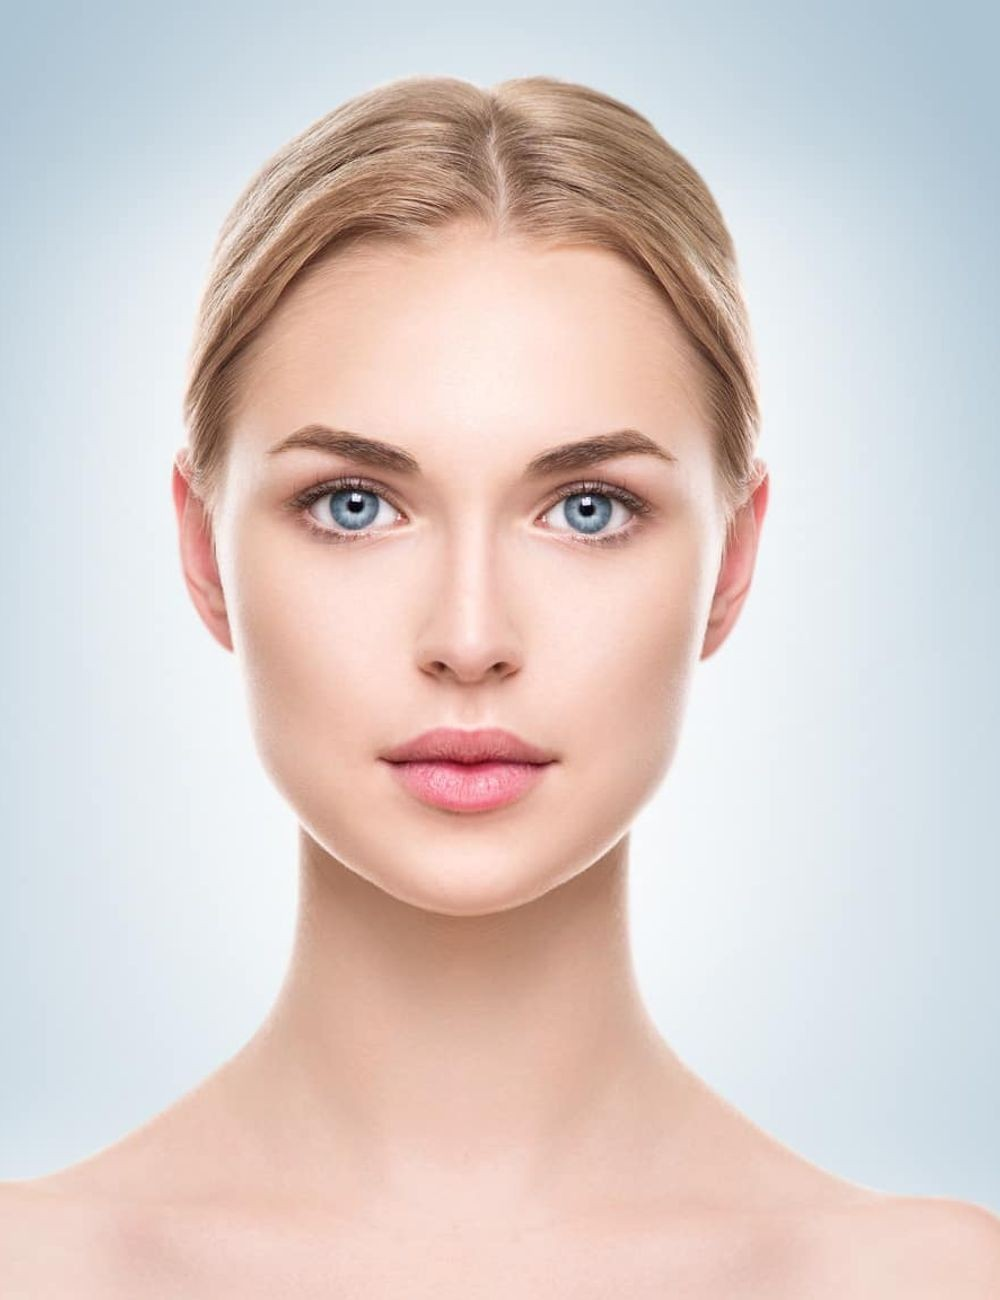
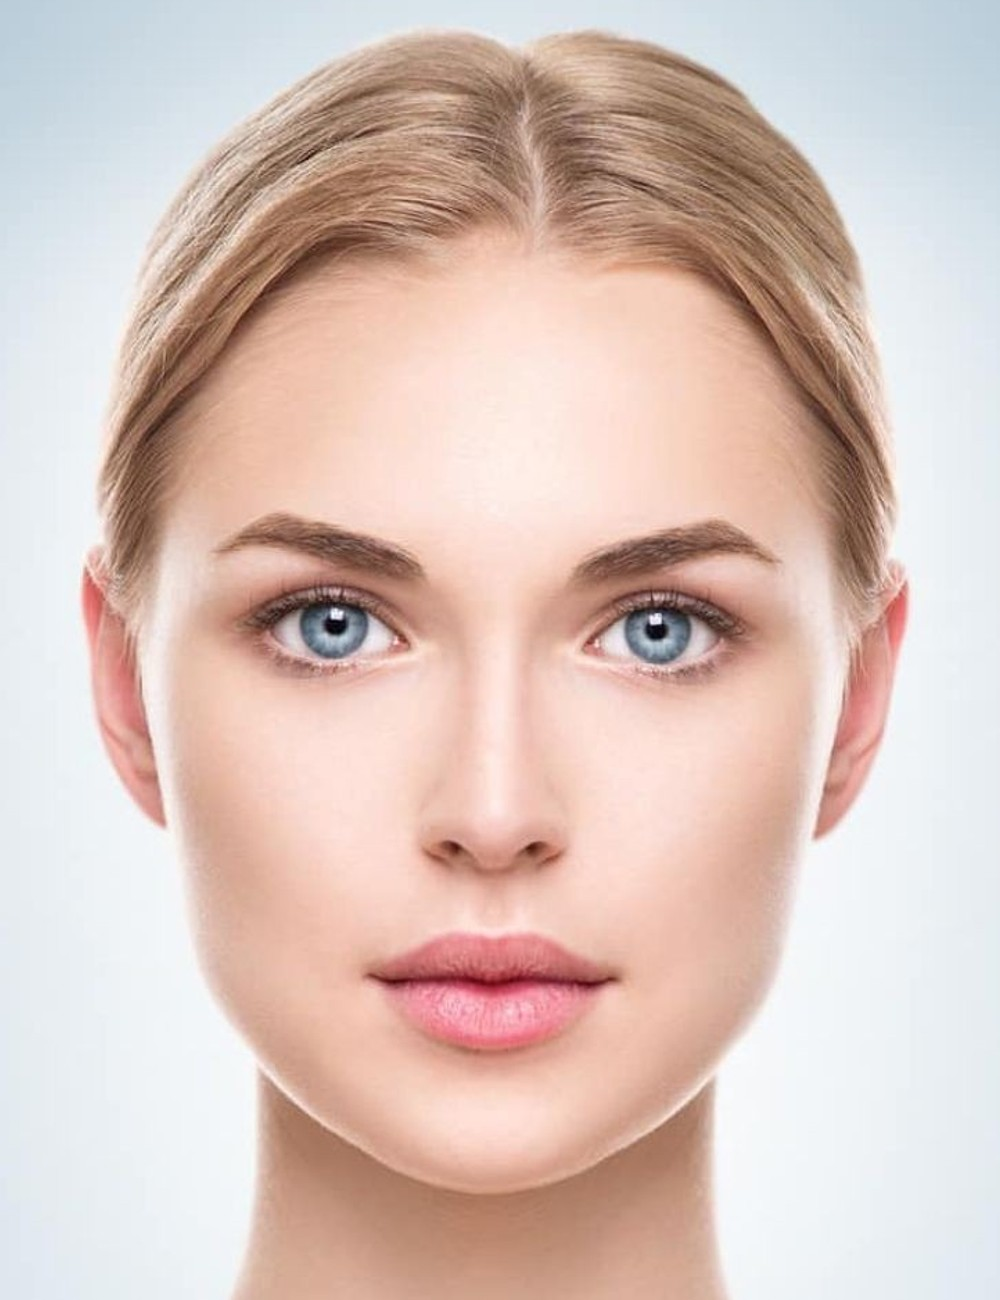
estetica: foto del mapa facial recortada (encuadre ajustado) + zonas recalibradas
Recorte mas ajustado de la foto base (sin cuello/hombros, cara mas grande) hecho por
Javier con el recortador, y las 29 zonas recalibradas/afinadas sobre ese encuadre con
el editor. Solo cambia la geometria y la foto base; los codigos y la lista (29) quedan
igual. Verificado: typecheck fe, build (calce confirmado con render).

diff --git a/shared/src/constants/zonas-faciales.ts b/shared/src/constants/zonas-faciales.ts
@@ -47,71 +47,71 @@ const GL = 'GLOBAL' as const
 export const ZONAS_FACIALES_NUCLEO: ZonaFacialDef[] = [
   // ── Tercio superior ──
   { codigo: 'FRENTE', nombreClinico: 'Región frontal', nombreVisible: 'Región frontal (frente)', grupo: TS, orden: 0,
-    path: 'M 646.0 330.0 A 171 74 0 0 1 304.0 330.0 A 171 74 0 0 1 646.0 330.0 Z' },
+    path: 'M 739.0 381.0 A 237 103 0 0 1 265.0 381.0 A 237 103 0 0 1 739.0 381.0 Z' },
   { codigo: 'GLABELA', nombreClinico: 'Complejo glabelar', nombreVisible: 'Glabela (entrecejo)', grupo: TS, orden: 1,
-    path: 'M 512.0 440.0 A 39 30 0 0 1 434.0 440.0 A 39 30 0 0 1 512.0 440.0 Z' },
+    path: 'M 553.0 533.0 A 54 42 0 0 1 445.0 533.0 A 54 42 0 0 1 553.0 533.0 Z' },
   { codigo: 'COLA_CEJA_DER', nombreClinico: 'Cola de ceja', nombreVisible: 'Cola de ceja · der', grupo: TS, orden: 2,
-    path: 'M 342.6 440.6 A 39 16 -8 0 1 265.4 451.4 A 39 16 -8 0 1 342.6 440.6 Z' },
+    path: 'M 317.5 534.5 A 54 22 -8 0 1 210.5 549.5 A 54 22 -8 0 1 317.5 534.5 Z' },
   { codigo: 'COLA_CEJA_IZQ', nombreClinico: 'Cola de ceja', nombreVisible: 'Cola de ceja · izq', grupo: TS, orden: 3,
-    path: 'M 674.6 456.4 A 39 16 8 0 1 597.4 445.6 A 39 16 8 0 1 674.6 456.4 Z' },
+    path: 'M 778.5 556.5 A 54 22 8 0 1 671.5 541.5 A 54 22 8 0 1 778.5 556.5 Z' },
   { codigo: 'PERIORBITAL_LAT_DER', nombreClinico: 'Región periorbitaria lateral', nombreVisible: 'Región periorbitaria (patas de gallo) · der', grupo: TS, orden: 4,
-    path: 'M 284.7 436.2 A 30 42 8 0 1 225.3 427.8 A 30 42 8 0 1 284.7 436.2 Z' },
+    path: 'M 237.6 527.8 A 42 58 8 0 1 154.4 516.2 A 42 58 8 0 1 237.6 527.8 Z' },
   { codigo: 'PERIORBITAL_LAT_IZQ', nombreClinico: 'Región periorbitaria lateral', nombreVisible: 'Región periorbitaria (patas de gallo) · izq', grupo: TS, orden: 5,
-    path: 'M 725.7 443.8 A 30 42 -8 0 1 666.3 452.2 A 30 42 -8 0 1 725.7 443.8 Z' },
+    path: 'M 850.6 538.2 A 42 58 -8 0 1 767.4 549.8 A 42 58 -8 0 1 850.6 538.2 Z' },
   { codigo: 'TEMPORAL_DER', nombreClinico: 'Región temporal', nombreVisible: 'Región temporal (sien) · der', grupo: TS, orden: 6,
-    path: 'M 226.9 355.6 A 25 42 6 0 1 177.1 350.4 A 25 42 6 0 1 226.9 355.6 Z' },
+    path: 'M 157.8 416.7 A 35 58 6 0 1 88.2 409.3 A 35 58 6 0 1 157.8 416.7 Z' },
   { codigo: 'TEMPORAL_IZQ', nombreClinico: 'Región temporal', nombreVisible: 'Región temporal (sien) · izq', grupo: TS, orden: 7,
-    path: 'M 761.9 352.4 A 25 42 -6 0 1 712.1 357.6 A 25 42 -6 0 1 761.9 352.4 Z' },
+    path: 'M 899.8 411.3 A 35 58 -6 0 1 830.2 418.7 A 35 58 -6 0 1 899.8 411.3 Z' },
 
   // ── Tercio medio ──
   { codigo: 'SURCO_LAGRIMAL_DER', nombreClinico: 'Surco lagrimal', nombreVisible: 'Surco lagrimal (ojera) · der', grupo: TM, orden: 8,
-    path: 'M 419.5 533.8 A 52 18 -8 0 1 316.5 548.2 A 52 18 -8 0 1 419.5 533.8 Z' },
+    path: 'M 427.3 657.0 A 72 25 -8 0 1 284.7 677.0 A 72 25 -8 0 1 427.3 657.0 Z' },
   { codigo: 'SURCO_LAGRIMAL_IZQ', nombreClinico: 'Surco lagrimal', nombreVisible: 'Surco lagrimal (ojera) · izq', grupo: TM, orden: 9,
-    path: 'M 630.5 544.2 A 52 18 8 0 1 527.5 529.8 A 52 18 8 0 1 630.5 544.2 Z' },
+    path: 'M 717.3 678.0 A 72 25 8 0 1 574.7 658.0 A 72 25 8 0 1 717.3 678.0 Z' },
   { codigo: 'MALAR_DER', nombreClinico: 'Región malar', nombreVisible: 'Región malar (pómulo) · der', grupo: TM, orden: 10,
-    path: 'M 387.6 616.3 A 64 46 12 0 1 262.4 589.7 A 64 46 12 0 1 387.6 616.3 Z' },
+    path: 'M 381.1 773.5 A 89 64 12 0 1 206.9 736.5 A 89 64 12 0 1 381.1 773.5 Z' },
   { codigo: 'MALAR_IZQ', nombreClinico: 'Región malar', nombreVisible: 'Región malar (pómulo) · izq', grupo: TM, orden: 11,
-    path: 'M 676.6 586.7 A 64 46 -12 0 1 551.4 613.3 A 64 46 -12 0 1 676.6 586.7 Z' },
+    path: 'M 782.1 736.5 A 89 64 -12 0 1 607.9 773.5 A 89 64 -12 0 1 782.1 736.5 Z' },
   { codigo: 'SUBMALAR_DER', nombreClinico: 'Región submalar', nombreVisible: 'Región submalar (hueco de la mejilla) · der', grupo: TM, orden: 12,
-    path: 'M 403.6 683.4 A 46 36 8 0 1 312.4 670.6 A 46 36 8 0 1 403.6 683.4 Z' },
+    path: 'M 337.4 866.9 A 64 50 8 0 1 210.6 849.1 A 64 50 8 0 1 337.4 866.9 Z' },
   { codigo: 'SUBMALAR_IZQ', nombreClinico: 'Región submalar', nombreVisible: 'Región submalar (hueco de la mejilla) · izq', grupo: TM, orden: 13,
-    path: 'M 636.6 667.6 A 46 36 -8 0 1 545.4 680.4 A 46 36 -8 0 1 636.6 667.6 Z' },
+    path: 'M 802.4 848.1 A 64 50 -8 0 1 675.6 865.9 A 64 50 -8 0 1 802.4 848.1 Z' },
   { codigo: 'SURCO_NASOGENIANO_DER', nombreClinico: 'Surco nasogeniano', nombreVisible: 'Surco nasogeniano · der', grupo: TM, orden: 14,
-    path: 'M 373.4 726.1 A 18 58 108 0 1 384.6 691.9 A 18 58 108 0 1 373.4 726.1 Z' },
+    path: 'M 379.3 911.8 A 25 81 108 0 1 394.7 864.2 A 25 81 108 0 1 379.3 911.8 Z' },
   { codigo: 'SURCO_NASOGENIANO_IZQ', nombreClinico: 'Surco nasogeniano', nombreVisible: 'Surco nasogeniano · izq', grupo: TM, orden: 15,
-    path: 'M 564.4 698.9 A 18 58 -108 0 1 575.6 733.1 A 18 58 -108 0 1 564.4 698.9 Z' },
+    path: 'M 616.3 859.2 A 25 81 -108 0 1 631.7 906.8 A 25 81 -108 0 1 616.3 859.2 Z' },
   { codigo: 'DORSO_NASAL', nombreClinico: 'Dorso nasal', nombreVisible: 'Dorso nasal (dorso de la nariz)', grupo: TM, orden: 16,
-    path: 'M 500.0 545.0 A 30 112 0 0 1 440.0 545.0 A 30 112 0 0 1 500.0 545.0 Z' },
+    path: 'M 537.0 679.0 A 42 155 0 0 1 453.0 679.0 A 42 155 0 0 1 537.0 679.0 Z' },
   { codigo: 'PUNTA_NASAL', nombreClinico: 'Punta nasal', nombreVisible: 'Punta nasal (punta de la nariz)', grupo: TM, orden: 17,
-    path: 'M 513.0 653.0 A 46 30 0 0 1 421.0 653.0 A 46 30 0 0 1 513.0 653.0 Z' },
+    path: 'M 555.0 829.0 A 64 42 0 0 1 427.0 829.0 A 64 42 0 0 1 555.0 829.0 Z' },
 
   // ── Tercio inferior ──
   { codigo: 'PERIORAL', nombreClinico: 'Región perioral', nombreVisible: 'Región perioral (código de barras)', grupo: TI, orden: 18,
-    path: 'M 553.0 769.0 A 87 40 0 0 1 379.0 769.0 A 87 40 0 0 1 553.0 769.0 Z' },
+    path: 'M 581.0 902.0 A 88 25 0 0 1 405.0 902.0 A 88 25 0 0 1 581.0 902.0 Z' },
   // Labios: UNA zona (superior + inferior juntos), por decisión del especialista.
   { codigo: 'LABIOS', nombreClinico: 'Labios', nombreVisible: 'Labios', grupo: TI, orden: 19,
-    path: 'M 526.0 767.0 A 60 36 0 0 1 406.0 767.0 A 60 36 0 0 1 526.0 767.0 Z' },
+    path: 'M 600.0 987.0 A 109 50 0 0 1 382.0 987.0 A 109 50 0 0 1 600.0 987.0 Z' },
   { codigo: 'COMISURA_DER', nombreClinico: 'Comisura labial', nombreVisible: 'Comisura labial · der', grupo: TI, orden: 20,
-    path: 'M 376.0 766.0 A 21 26 0 0 1 334.0 766.0 A 21 26 0 0 1 376.0 766.0 Z' },
+    path: 'M 365.0 980.0 A 29 36 0 0 1 307.0 980.0 A 29 36 0 0 1 365.0 980.0 Z' },
   { codigo: 'COMISURA_IZQ', nombreClinico: 'Comisura labial', nombreVisible: 'Comisura labial · izq', grupo: TI, orden: 21,
-    path: 'M 591.0 777.0 A 21 26 0 0 1 549.0 777.0 A 21 26 0 0 1 591.0 777.0 Z' },
+    path: 'M 672.0 983.0 A 29 36 0 0 1 614.0 983.0 A 29 36 0 0 1 672.0 983.0 Z' },
   { codigo: 'MARIONETA_DER', nombreClinico: 'Surco labiomentoniano', nombreVisible: 'Surco labiomentoniano (línea de marioneta) · der', grupo: TI, orden: 22,
-    path: 'M 395.9 811.9 A 18 40 6 0 1 360.1 808.1 A 18 40 6 0 1 395.9 811.9 Z' },
+    path: 'M 391.9 1049.6 A 25 56 6 0 1 342.1 1044.4 A 25 56 6 0 1 391.9 1049.6 Z' },
   { codigo: 'MARIONETA_IZQ', nombreClinico: 'Surco labiomentoniano', nombreVisible: 'Surco labiomentoniano (línea de marioneta) · izq', grupo: TI, orden: 23,
-    path: 'M 587.9 796.1 A 18 40 -6 0 1 552.1 799.9 A 18 40 -6 0 1 587.9 796.1 Z' },
+    path: 'M 649.9 1052.4 A 25 56 -6 0 1 600.1 1057.6 A 25 56 -6 0 1 649.9 1052.4 Z' },
   { codigo: 'MENTON', nombreClinico: 'Región mentoniana', nombreVisible: 'Región mentoniana (mentón)', grupo: TI, orden: 24,
-    path: 'M 525.0 860.0 A 57 44 0 0 1 411.0 860.0 A 57 44 0 0 1 525.0 860.0 Z' },
+    path: 'M 574.0 1109.0 A 79 37 0 0 1 416.0 1109.0 A 79 37 0 0 1 574.0 1109.0 Z' },
   { codigo: 'LINEA_MANDIBULAR_DER', nombreClinico: 'Reborde mandibular', nombreVisible: 'Reborde mandibular (línea mandibular) · der', grupo: TI, orden: 25,
-    path: 'M 440.2 907.0 A 140 18 40 0 1 225.8 727.0 A 140 18 40 0 1 440.2 907.0 Z' },
+    path: 'M 453.6 1181.7 A 194 25 40 0 1 156.4 932.3 A 194 25 40 0 1 453.6 1181.7 Z' },
   { codigo: 'LINEA_MANDIBULAR_IZQ', nombreClinico: 'Reborde mandibular', nombreVisible: 'Reborde mandibular (línea mandibular) · izq', grupo: TI, orden: 26,
-    path: 'M 732.2 703.0 A 140 18 -40 0 1 517.8 883.0 A 140 18 -40 0 1 732.2 703.0 Z' },
+    path: 'M 858.6 898.3 A 194 25 -40 0 1 561.4 1147.7 A 194 25 -40 0 1 858.6 898.3 Z' },
   { codigo: 'SUBMENTON', nombreClinico: 'Región submentoniana', nombreVisible: 'Región submentoniana (papada)', grupo: TI, orden: 27,
-    path: 'M 528.0 918.0 A 66 28 0 0 1 396.0 918.0 A 66 28 0 0 1 528.0 918.0 Z' },
+    path: 'M 590.0 1169.0 A 92 39 0 0 1 406.0 1169.0 A 92 39 0 0 1 590.0 1169.0 Z' },
 
   // ── Global ──
   // No es una zona anatómica: ancla tratamientos que no van a una región (peelings,
   // skinbooster, aparatología) sin ensuciar los datos. Se dibuja como anillo en el
   // borde del óvalo facial.
   { codigo: 'ROSTRO_COMPLETO', nombreClinico: 'Rostro completo', nombreVisible: 'Rostro completo', grupo: GL, orden: 28,
-    path: 'M 468 167 A 284 386 0 1 0 468.1 167 Z M 468 191 A 260 362 0 1 1 467.9 191 Z' },
+    path: 'M 492 154 A 394 536 0 1 0 492.1 154 Z M 492 187 A 361 503 0 1 1 491.9 187 Z' },
 ]
